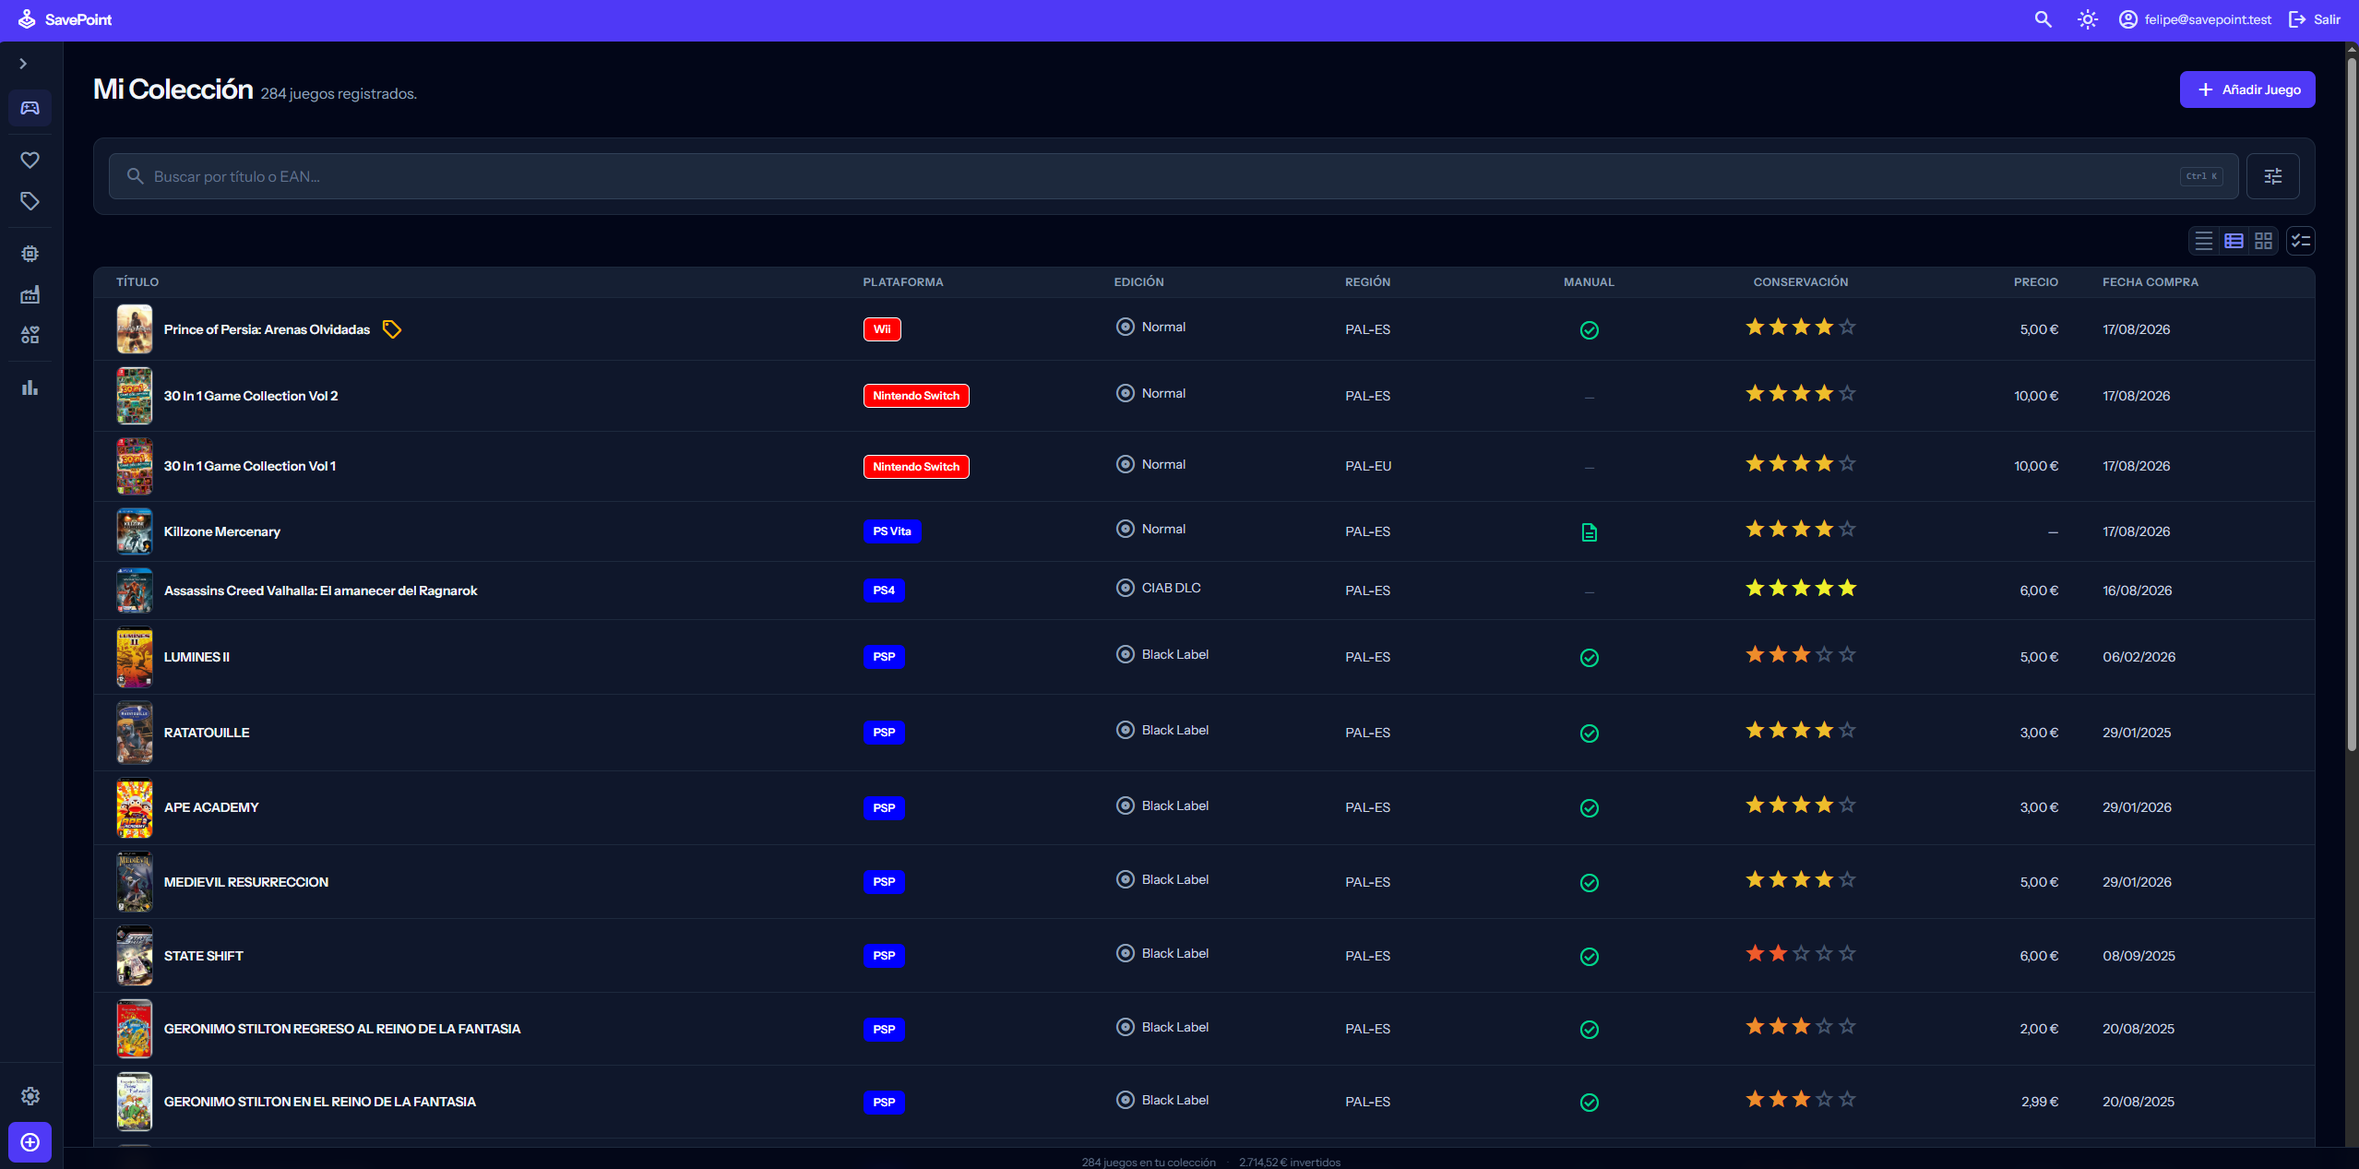
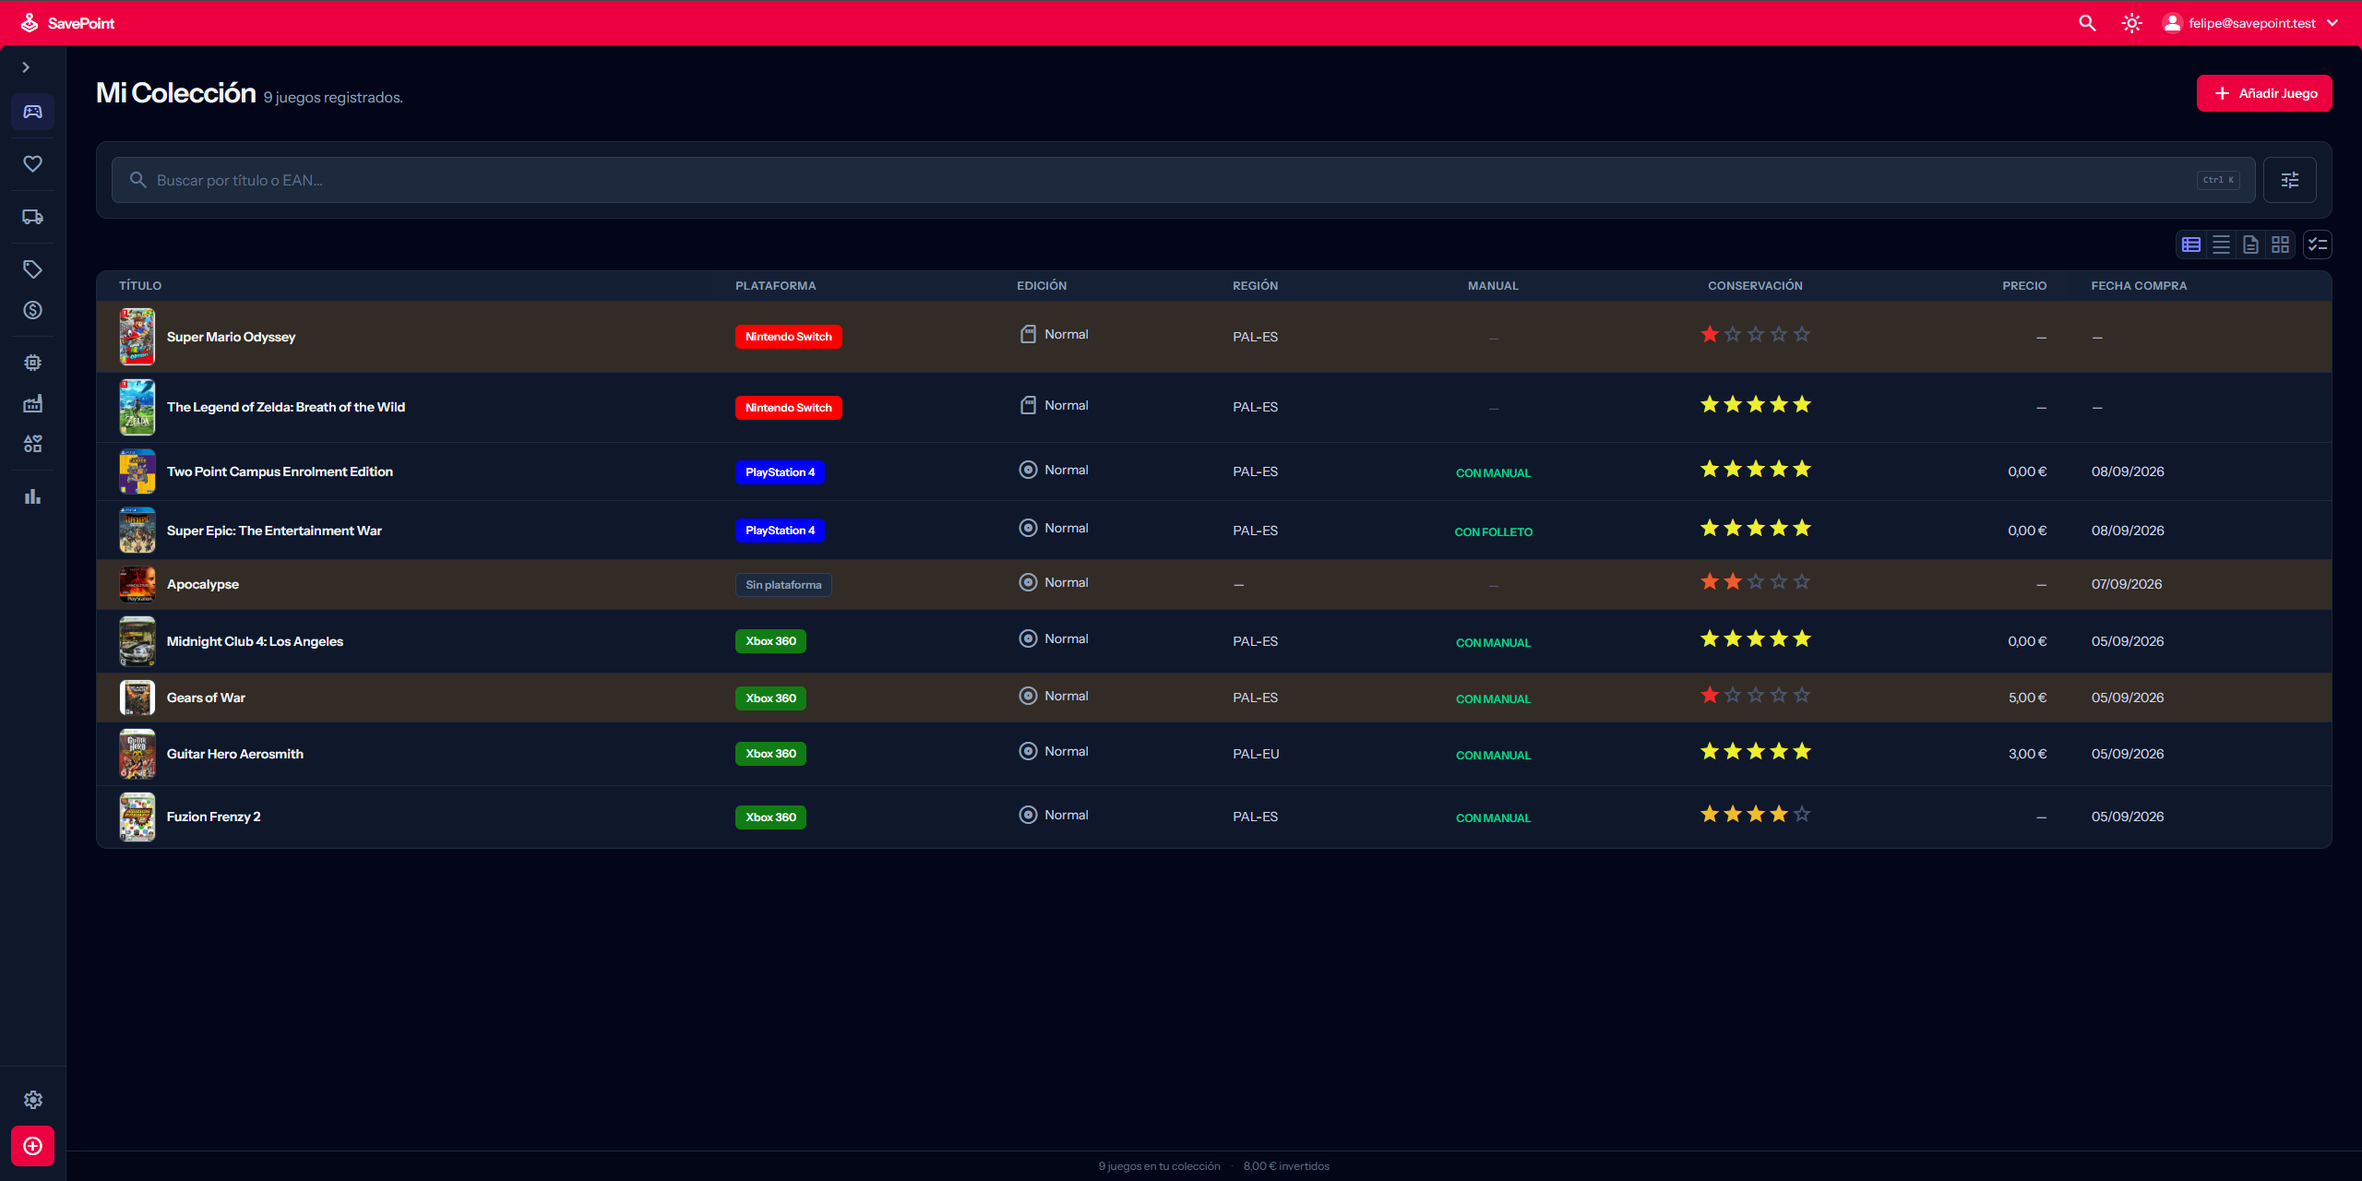
docs(readme): poner el README al día con las features de esta tanda
Badges (PHP 8.4, PostgreSQL 18, ambos desfasados), filtro por
conservación, aviso de mal estado (+ su toggle en Ajustes), sugerencias
de CEX junto a coincidencias locales, cuarta vista "solo texto",
tema automático, Zona de peligro del panel, y la sección de Tests
ampliada con toda la cobertura nueva.

Capturas: sustituidas 01_home (ya con el aviso amarillo visible) y
05_control_panel (con la Zona de peligro); añadidas 04_new_editions_
formats (los 7 subtipos de formato) y 08_text_view (la vista nueva);
borrada 04_editions_view.png, ya sin ninguna referencia.

diff --git a/README.md b/README.md
@@ -6,9 +6,9 @@
 **Tu colección de videojuegos, catalogada de verdad — y solo tuya.**
 
 [![Licencia](https://img.shields.io/badge/licencia-PolyForm%20Noncommercial-blue)](LICENSE)
-![PHP](https://img.shields.io/badge/PHP-8.3-777BB4?logo=php&logoColor=white)
+![PHP](https://img.shields.io/badge/PHP-8.4-777BB4?logo=php&logoColor=white)
 ![Laravel](https://img.shields.io/badge/Laravel-13-FF2D20?logo=laravel&logoColor=white)
-![PostgreSQL](https://img.shields.io/badge/PostgreSQL-16-4169E1?logo=postgresql&logoColor=white)
+![PostgreSQL](https://img.shields.io/badge/PostgreSQL-18-4169E1?logo=postgresql&logoColor=white)
 ![Docker Compose](https://img.shields.io/badge/Docker-Compose-2496ED?logo=docker&logoColor=white)
 
 </div>
@@ -44,7 +44,7 @@ Historial de cambios en [`CHANGELOG.md`](CHANGELOG.md).
 <tr>
 <td width="50%">
 <img src="docs/screenshots/01_home.png" alt="Mi Colección">
-<br><sub><b>Mi Colección</b>: listado con miniatura, plataforma, edición, región, manual, conservación, precio y fecha de compra.</sub>
+<br><sub><b>Mi Colección</b>: listado con miniatura, plataforma, edición, región, manual, conservación, precio y fecha de compra — con el aviso amarillo de "mal estado" en los juegos de 1-2 estrellas.</sub>
 </td>
 <td width="50%">
 <img src="docs/screenshots/02_detail.png" alt="Ficha de detalle de un juego">
@@ -57,18 +57,24 @@ Historial de cambios en [`CHANGELOG.md`](CHANGELOG.md).
 <br><sub><b>Lista de deseos</b>: los juegos que todavía no tienes, aparte de la colección y de sus totales.</sub>
 </td>
 <td width="50%">
-<img src="docs/screenshots/04_editions_view.png" alt="Gestión de ediciones">
-<br><sub><b>Ediciones</b>: Normal, Black Label, CIAB... y en qué plataformas existe cada una.</sub>
+<img src="docs/screenshots/04_new_editions_formats.png" alt="Nueva edición, con los subtipos de formato">
+<br><sub><b>Ediciones</b>: cartucho, disco, diskette, cassette, otros, digital o CIAB — el soporte real de cada edición, no solo "físico o digital".</sub>
 </td>
 </tr>
 <tr>
 <td width="50%">
 <img src="docs/screenshots/05_control_panel.png" alt="Panel de control">
-<br><sub><b>Panel de control</b>: importar/exportar, papelera, perfil, ajustes y gestión de usuarios.</sub>
+<br><sub><b>Panel de control</b>: importar/exportar, papelera, perfil, ajustes, gestión de usuarios y la Zona de peligro para vaciar una plataforma o toda la colección.</sub>
 </td>
 <td width="50%">
 <img src="docs/screenshots/06_light_theme.png" alt="Tema claro">
 <br><sub><b>Tema claro</b>, junto al oscuro — ajuste de cuenta, te sigue a cualquier dispositivo.</sub>
+</td>
+</tr>
+<tr>
+<td colspan="2">
+<img src="docs/screenshots/08_text_view.png" alt="Vista solo texto de la colección">
+<br><sub><b>Vista solo texto</b>: sin carátulas ni espacio reservado para ellas, para hojear más filas de un vistazo — solo en escritorio.</sub>
 </td>
 </tr>
 </table>
@@ -107,7 +113,8 @@ Historial de cambios en [`CHANGELOG.md`](CHANGELOG.md).
   ya no hay un buscador de texto aparte en la propia página, solo un botón con su misma pinta que lo abre, precargado
   con la búsqueda activa si la hay. Un icono "Avanzado" en la página sigue desplegando los filtros de **plataforma**
   (incluida la opción **"Sin plataforma"**, para aislar los juegos sin ninguna asignada), **estado de juego**,
-  **propiedad**, orden y tamaño de página, que gobiernan el listado paginado (el buscador rápido no pagina).
+  **propiedad**, **conservación** (una puntuación concreta, de 1 a 5 estrellas), orden y tamaño de página, que
+  gobiernan el listado paginado (el buscador rápido no pagina).
 - **Ficha de detalle de solo lectura** con toda la información del juego, para "solo mirar" sin abrir el formulario de
   edición.
 - **Enriquecimiento automático con IGDB**: la primera vez que se abre la ficha de un juego, se busca en IGDB por título
@@ -123,6 +130,9 @@ Historial de cambios en [`CHANGELOG.md`](CHANGELOG.md).
   defecto), sigue siendo siempre una elección explícita.
 - La conservación se muestra como estrellas de solo lectura en cualquier vista del listado (tarjetas, tabla,
   estantería): se cambia siempre desde la ficha de edición del juego, nunca tocando directamente sobre el listado.
+- **Aviso de mal estado**: los juegos con conservación de 2 estrellas o menos (Malo/Regular) se resaltan en amarillo
+  en fila/tarjeta, en las tres vistas de la colección, para detectarlos de un vistazo sin filtrar ni ordenar —
+  desactivable desde Ajustes si prefieres no verlo.
 - Edición de un juego existente, incluida la opción de reemplazar o quitar la carátula.
 - Al dar de alta o editar un juego con un EAN que ya tienes registrado, se avisa antes de guardar en vez de duplicarlo
   sin más (con opción de "guardar de todos modos" para el caso legítimo de tener dos copias físicas).
@@ -289,8 +299,15 @@ Historial de cambios en [`CHANGELOG.md`](CHANGELOG.md).
     - **Ocultar los juegos en venta** del listado de la colección sin filtrar: siguen viéndose con el filtro "En venta"
       y en su propia página (`/for-sale`), pero desaparecen del listado por defecto. Incluidos por defecto, como hasta
       ahora.
-    - Tema claro/oscuro y la vista de la colección elegida (ver Interfaz) también se guardan aquí, aunque se cambian
-      desde sus propios controles (icono del header, botones de vista), no desde este formulario.
+    - **Aviso de mal estado**: activa/desactiva el resaltado en amarillo de los juegos en mal estado (ver Gestión de la
+      colección). Activado por defecto.
+    - Tema claro/oscuro/automático y la vista de la colección elegida (ver Interfaz) también se guardan aquí, aunque se
+      cambian desde sus propios controles (icono del header, botones de vista), no desde este formulario.
+- **Zona de peligro** (`/panel/danger-zone`): enviar a la papelera de golpe todos los juegos de una plataforma concreta
+  (incluida la opción "Sin plataforma"), o la colección entera. Ninguna de las dos acciones se ejecuta con un solo
+  clic: hay que teclear el nombre exacto de la plataforma (o un texto fijo de confirmación para "toda la colección"),
+  mismo patrón que confirmar el borrado de un repositorio en GitHub — comprobado también en el servidor, no solo en el
+  formulario. La plataforma en sí nunca se borra, solo se queda vacía.
 
 ### Seguridad de datos
 
@@ -315,9 +332,10 @@ Historial de cambios en [`CHANGELOG.md`](CHANGELOG.md).
   detalle del juego, nunca con iconos sueltos en cada fila.
 - Feedback de acciones consistente en toda la app: toasts flotantes para confirmaciones (con "Deshacer" cuando aplica) y
   un diálogo propio para confirmar acciones destructivas, en vez del `confirm()` nativo del navegador.
-- Tema claro/oscuro y vista de la colección (línea de abajo) son ajustes de **cuenta**, no solo del navegador (antes
-  vivían solo en `localStorage`): se pintan server-side desde el primer HTML, sin parpadeo al cargar o navegar, y te
-  siguen a cualquier dispositivo donde inicies sesión.
+- Tema claro/oscuro/**automático** (sigue el tema de tu navegador, normalmente heredado del sistema operativo, con
+  actualización en caliente si cambia sin recargar) y vista de la colección (línea de abajo) son ajustes de
+  **cuenta**, no solo del navegador (antes vivían solo en `localStorage`): se pintan server-side desde el primer
+  HTML, sin parpadeo al cargar o navegar, y te siguen a cualquier dispositivo donde inicies sesión.
 - **Color de la barra de navegación y de los botones primarios**, a elegir entre varios presets (indigo, emerald, rose,
   amber, sky, violet) desde Ajustes — mismo ajuste de cuenta que el tema.
 - **Menú de usuario de la cabecera**: el avatar/email de la barra superior abre un desplegable con acceso al perfil, al
@@ -326,8 +344,9 @@ Historial de cambios en [`CHANGELOG.md`](CHANGELOG.md).
   Ajustes); atajo de teclado `/` abre el buscador rápido, igual que `Ctrl+K`.
 - Acciones en bloque: seleccionar varios juegos a la vez para enviarlos a la papelera o cambiarles el estado de golpe.
 - Botón flotante de "Añadir juego" en móvil, para no tener que volver arriba al hacer scroll por una colección larga.
-- Tres formas de ver la colección: la habitual, una tabla compacta y una estantería de carátulas grandes, con un fundido
-  suave al cambiar entre ellas en vez del salto instantáneo de antes.
+- Cuatro formas de ver la colección: la habitual, una tabla compacta, solo texto (sin carátulas ni espacio reservado
+  para ellas, para hojear más filas por pantalla — solo en escritorio, en móvil siempre se ve la tarjeta) y una
+  estantería de carátulas grandes, con un fundido suave al cambiar entre ellas en vez del salto instantáneo de antes.
 - Barra de estado discreta con el total de juegos y el gasto invertido en toda la colección, siempre visible.
 - **Insignia de "completado"** (icono de trofeo): los juegos con estado de juego = terminado la llevan en la esquina de
   la carátula, tanto en la vista de estantería como en la miniatura de la tarjeta (móvil).
@@ -335,9 +354,11 @@ Historial de cambios en [`CHANGELOG.md`](CHANGELOG.md).
   resultados en vivo por título o EAN mientras se escribe (con un esqueleto de carga mientras llegan, en vez de dejar
   los resultados anteriores congelados), con filtros opcionales de plataforma/estado de juego/propiedad y un enlace para
   ver todos los resultados en la colección paginada cuando hace falta más que eso. Los resultados que ya están en tu
-  lista de deseos llevan un badge "En lista deseos" para no perderlo de vista. Si el juego no está en tu colección, se
-  ofrecen además **sugerencias de CEX** (webuy.com) con EAN y carátula reales para rellenar el alta con un clic; la
-  lista de deseos se puede excluir de estos resultados desde Ajustes.
+  lista de deseos llevan un badge "En lista deseos" para no perderlo de vista. Se ofrecen además **sugerencias de
+  CEX** (webuy.com) con EAN y carátula reales para rellenar el alta con un clic: sin ninguna coincidencia local se
+  muestran todas, y si ya tienes algún resultado en tu colección se recortan a un par (sin repetir títulos que ya
+  tengas) como complemento por si se trata de una entrega nueva. La lista de deseos se puede excluir de estos
+  resultados desde Ajustes.
 - **Escaneo de código de barras** con la cámara desde la propia búsqueda rápida: detecta el EAN y lo vuelca en el
   buscador, enlazando con las sugerencias de CEX si el juego todavía no está en tu colección. Necesita HTTPS para
   acceder a la cámara fuera de `localhost` (ver [Desplegar para uso propio](#desplegar-para-uso-propio)).
@@ -351,7 +372,7 @@ Historial de cambios en [`CHANGELOG.md`](CHANGELOG.md).
 - **Base de datos:** PostgreSQL 18 (usa `JSON` para campos estructurados como `genres`)
 - **Autenticación web:** sesiones con guard `web` (login por email/contraseña)
 - **Autenticación API:** Laravel Sanctum (tokens Bearer)
-- **Frontend web:** Blade + Tailwind CSS + Vite.
+- **Frontend web:** Blade + Tailwind CSS + Vite (Node 24 para compilar assets).
 - **Localización:** interfaz y mensajes de validación en español (`APP_LOCALE=es`, `lang/es/`). Laravel 11+ no publica
   estos archivos por defecto; se generaron y tradujeron a mano para que los errores de formulario no muestren la clave
   sin traducir (p. ej. `validation.required`).
@@ -518,8 +539,9 @@ Cobertura actual:
 
 - `Tests\Feature\Auth\WebAuthTest`: login/logout, credenciales inválidas, redirect a la página originalmente solicitada,
   protección de rutas para invitados, bloqueo por fuerza bruta (por email+IP y, rotando de IP en cada intento, por el
-  límite adicional solo por email), y que el enlace "Regístrate" aparece o no según el registro público esté abierto o
-  cerrado.
+  límite adicional solo por email), que el enlace "Regístrate" aparece o no según el registro público esté abierto o
+  cerrado, y que el tema (incluido "automático") se mantiene entre las pantallas de login/registro/2FA y la app ya
+  autenticada.
 - `Tests\Feature\Auth\RegisterTest`: alta con datos válidos (evento `Registered`, contraseña hasheada, cuenta creada con
   2FA activo y sin autenticar todavía), que completar el desafío de 2FA es lo que autentica de verdad y respeta la
   página originalmente solicitada, validación (nombre obligatorio, email válido y único, contraseña con mínimo 8
@@ -557,7 +579,10 @@ Cobertura actual:
   aviso de EAN duplicado (con y sin confirmar), `GamePolicy` aplicada en las rutas web, la ficha de detalle, la edición
   rápida (estado/en venta) por AJAX y por formulario normal, el filtro "en venta", el fragmento que devuelve `index()`
   para peticiones AJAX, el orden/paginación/región/edición por defecto de Ajustes (aplicados solo cuando la URL o el
-  formulario no traen un valor explícito), y el autoasignado de fondo desde IGDB al dar de alta con ese ajuste activo.
+  formulario no traen un valor explícito), y el autoasignado de fondo desde IGDB al dar de alta con ese ajuste activo;
+  el filtro por conservación, el botón "Guardar igualmente" del propio aviso de EAN duplicado, el resaltado en amarillo
+  de juegos en mal estado (y que se puede desactivar desde Ajustes), y la vista "solo texto" (botón visible, clase en
+  `<html>` según la preferencia guardada).
 - `Tests\Feature\Web\GameExportControllerTest`: exportación imprimible/PDF y a CSV, mismos filtros que el listado,
   scoping por usuario, y de regresión, que la vista imprimible es un documento autocontenido sin el layout de la app.
 - `Tests\Feature\Web\GameTrashControllerTest`: papelera (listar/restaurar/eliminar definitivamente, buscador/filtro
@@ -575,14 +600,19 @@ Cobertura actual:
   panel de catálogo, validaciones propias (colores en formato hex, nombre único de fabricante, colores obligatorios solo
   si se sobrescriben en una plataforma), que borrar un registro deja en `null` la relación en juegos/plataformas en vez
   de arrastrar el borrado, que la edición "Normal" existe por defecto sin ninguna plataforma asociada (disponible para
-  cualquiera), y el formato de edición (físico por defecto si no se indica, alta/edición con un formato concreto,
-  formato inválido rechazado).
+  cualquiera), y el formato de edición (disco por defecto si no se indica, alta/edición con cualquiera de los subtipos
+  físicos, formato inválido — incluido el antiguo "físico" genérico, ya no válido — rechazado). `Tests\Unit\Models\
+  EditionTest` cubre la etiqueta/icono de cada formato y el fallback de uno desconocido.
 - `Tests\Feature\Web\SearchControllerTest`: búsqueda rápida por título/EAN acotada al usuario autenticado, filtros de
-  plataforma/estado de juego/propiedad, sugerencias externas de CEX solo cuando no hay coincidencia local (y no antes de
-  3 caracteres), y que la lista de deseos aparece o no según el ajuste correspondiente.
+  plataforma/estado de juego/propiedad, sugerencias externas de CEX (no antes de 3 caracteres) tanto sin coincidencia
+  local como junto a coincidencias ya existentes (recortadas a un par, sin repetir títulos ya poseídos), el aviso de
+  "afina la búsqueda" cuando no hay nada en ningún sitio, y que la lista de deseos aparece o no según el ajuste
+  correspondiente.
 - `Tests\Feature\Web\PanelControllerTest`: enlaces del panel y contador de la papelera por usuario, y la página de
   Ajustes — guardar cada grupo de preferencias (incluido dejar un valor en blanco para volver al comportamiento por
-  defecto), que no afectan a otros usuarios, y el endpoint AJAX de tema/vista de la colección.
+  defecto), que no afectan a otros usuarios, y el endpoint AJAX de tema/vista de la colección; la Zona de peligro
+  (vaciar una plataforma concreta o toda la colección, con y sin confirmación correcta, aislamiento entre usuarios,
+  invitados sin acceso).
 - `Tests\Feature\Web\ProfileControllerTest`: actualización de nombre/email (con email único), subida/reemplazo/
   eliminación de avatar (con limpieza del fichero anterior en disco), validación del avatar (tipo/tamaño), y cambio de
   contraseña exigiendo la actual y confirmación.
@@ -599,7 +629,8 @@ Cobertura actual:
 - `Tests\Feature\Web\PasswordResetTest`: envío del enlace de reset (mismo mensaje exista o no el email), reset con token
   válido/inválido.
 - `Tests\Unit\Models\GameTest` / `PlatformTest`: iniciales y URL de carátula, resolución de colores/etiqueta de chip con
-  fallback a fabricante.
+  fallback a fabricante; el color del placeholder de carátula (heredado de la plataforma, o determinista por título sin
+  ella) y qué juegos cuentan como "mal estado" para el aviso amarillo.
 
 ## Ideas a futuro
 
